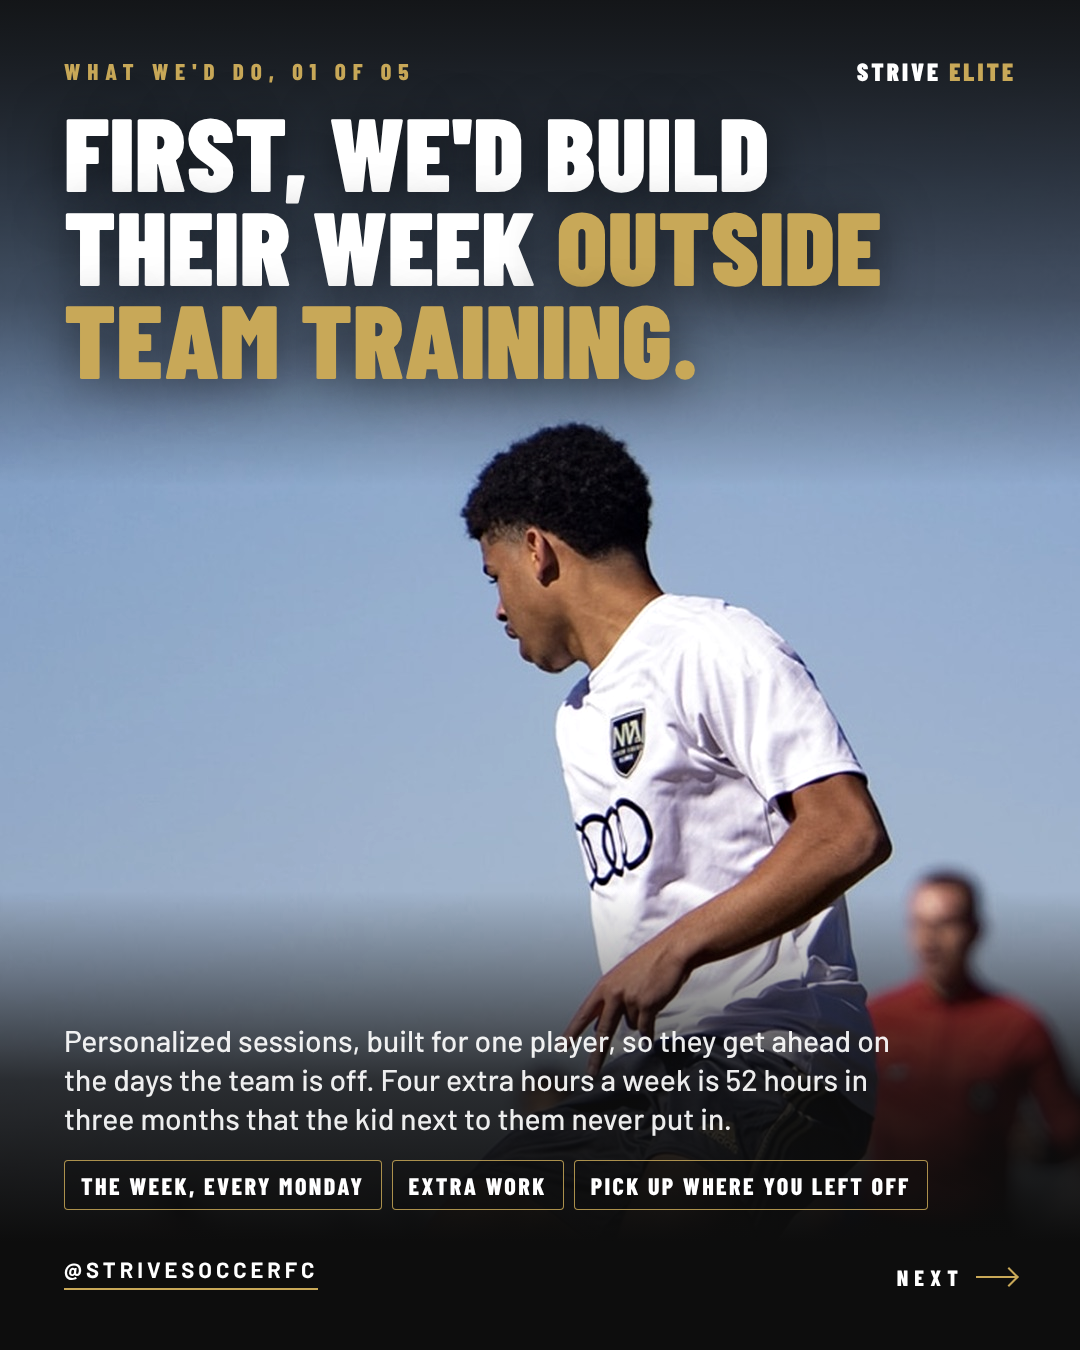
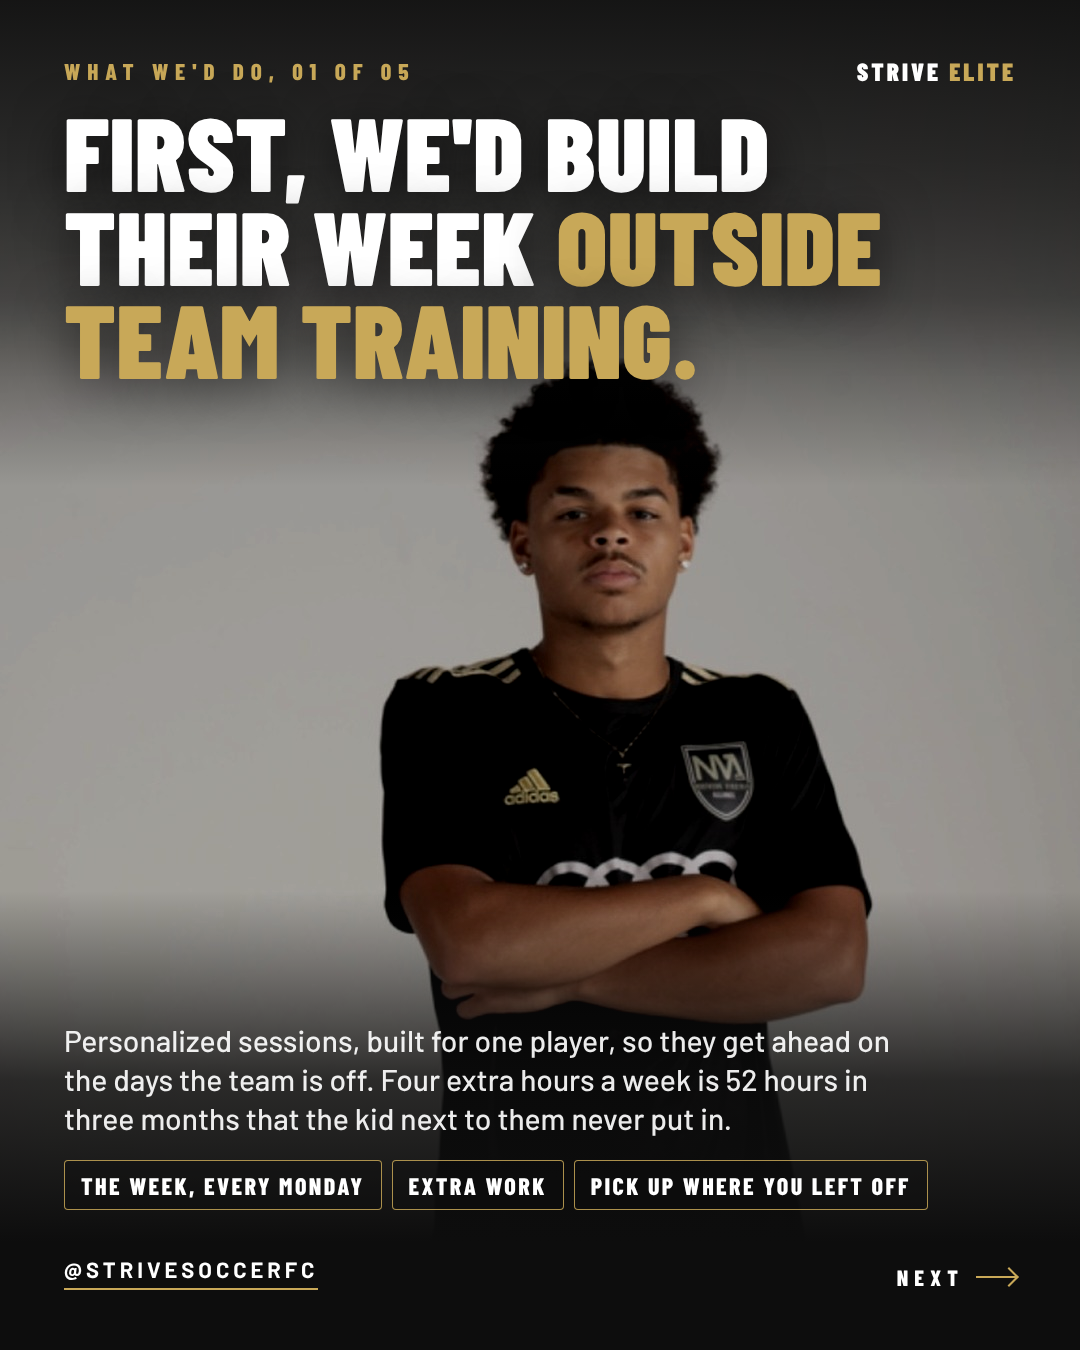
Offer carousel: studio portrait on step 1, standing shot as the option
Step 1 now carries the studio portrait in the black NVA kit, graded
toward brand black; the standing field shot rendered beside it as
the other option. Record updated.

Claude-Session: https://claude.ai/code/session_011JsCTTjCbUkHbTuWTKQSXJ

diff --git a/marketing/announcement/offer-post/step1-standing.html b/marketing/announcement/offer-post/step1-standing.html
@@ -1,0 +1,35 @@
+<!doctype html><meta charset="utf-8">
+<title>Step 01 (1080x1350)</title>
+<link rel="stylesheet" href="../../covers/strive-elite-meeting/fonts.css">
+<style>
+/* The walk, framed the Nike way (Coach Yinka, Nov 4 2026): headline in the
+   negative space at the top, the coach uncovered in the clear band under
+   it, the sentence and the chips low. Photos are pre-composed in
+   photos/stepN.jpg so the face lands at about y 500. */
+*{box-sizing:border-box;margin:0;padding:0}
+html,body{width:1080px;height:1350px;background:#0d0d0d;overflow:hidden}
+body{font-family:'Barlow',sans-serif;color:#fff;position:relative}
+.ph{position:absolute;inset:0;background:#0d0d0d url(photos/step1-standing.jpg) center top/1080px 1350px;filter:saturate(.85) contrast(1.06)}
+
+.sh{position:absolute;inset:0;background:linear-gradient(180deg,rgba(13,13,13,.92) 0%,rgba(13,13,13,.55) 22%,rgba(13,13,13,0) 36%,rgba(13,13,13,0) 66%,rgba(13,13,13,.8) 80%,#0d0d0d 92%,#0d0d0d 100%)}
+.top{position:absolute;left:64px;top:56px;right:64px;display:flex;justify-content:space-between;align-items:center}
+.step{font-family:'Barlow Condensed';font-weight:800;font-size:23px;letter-spacing:.3em;text-transform:uppercase;color:#c8a858}
+.wm{font-family:'Barlow Condensed';font-weight:900;font-size:25px;letter-spacing:.12em;text-transform:uppercase}
+.wm span{color:#c8a858}
+h1{position:absolute;left:64px;top:104px;right:64px;font-family:'Barlow Condensed';font-weight:900;font-size:104px;line-height:.9;text-transform:uppercase;letter-spacing:.005em;text-shadow:0 8px 50px rgba(0,0,0,.6)}
+h1 span{color:#c8a858}
+.low{position:absolute;left:64px;right:64px;bottom:140px}
+.p{font-size:30px;line-height:1.3;font-weight:500;max-width:860px;color:rgba(255,255,255,.92)}
+.chips{margin-top:22px;display:flex;flex-wrap:wrap;gap:10px}
+.chips span{font-family:'Barlow Condensed';font-weight:800;font-size:24px;letter-spacing:.1em;text-transform:uppercase;padding:10px 16px 9px;border:1.5px solid rgba(200,168,88,.85);color:#fff;border-radius:4px;background:rgba(13,13,13,.4)}
+.swipe{position:absolute;right:64px;bottom:60px;font-family:'Barlow Condensed';font-weight:800;font-size:22px;letter-spacing:.28em;text-transform:uppercase;display:flex;align-items:center;gap:12px}
+.swipe i{display:block;width:40px;height:2px;background:#c8a858;position:relative}
+.swipe i:after{content:"";position:absolute;right:0;top:-6px;width:12px;height:12px;border-top:2px solid #c8a858;border-right:2px solid #c8a858;transform:rotate(45deg)}
+.handle{position:absolute;left:64px;bottom:60px;font-weight:700;font-size:22px;letter-spacing:.18em;text-transform:uppercase}
+.handle:after{content:"";display:block;height:2px;width:100%;background:#c8a858;margin-top:6px}
+</style>
+<div class="ph"></div><div class="sh"></div>
+<div class="top"><div class="step">What we'd do, 01 of 05</div><div class="wm">Strive <span>Elite</span></div></div>
+<h1>First, we'd build<br>their week <span>outside<br>team training.</span></h1>
+<div class="low"><p class="p">Personalized sessions, built for one player, so they get ahead on the days the team is off. Four extra hours a week is 52 hours in three months that the kid next to them never put in.</p><div class="chips"><span>The week, every Monday</span><span>Extra Work</span><span>Pick up where you left off</span></div></div>
+<div class="handle">@strivesoccerfc</div><div class="swipe">Next <i></i></div>

diff --git a/marketing/announcement/offer-post/compose-photos.py b/marketing/announcement/offer-post/compose-photos.py
@@ -6,8 +6,9 @@
 # of the space above our head."
 from PIL import Image, ImageFilter, ImageEnhance
 S="photos/src/"; F=220
-def comp(src,k,head,target,out,canvas=(1080,1350),mirror=False,band_bright=.8):
+def comp(src,k,head,target,out,canvas=(1080,1350),mirror=False,band_bright=.8,grade=None):
     im=Image.open(S+src).convert("RGB")
+    if grade: im=ImageEnhance.Contrast(ImageEnhance.Brightness(im).enhance(grade[0])).enhance(grade[1])
     if mirror: im=im.transpose(Image.FLIP_LEFT_RIGHT)
     im=im.resize((round(im.width*k),round(im.height*k)),Image.LANCZOS)
     x=round(target[0]-head[0]*k); y=round(target[1]-head[1]*k)
@@ -25,7 +26,8 @@ def comp(src,k,head,target,out,canvas=(1080,1350),mirror=False,band_bright=.8):
         c.paste(im,(x,y))
     if out: c.save(out,quality=92)
     return c
-comp("yinka-nva-strike.jpg",1.5,(590,300),(600,500),"photos/step1.jpg")
+comp("yinka-nva-studio.jpg",1.3,(609,289),(600,535),"photos/step1.jpg",grade=(.72,1.18))  # step 1: the studio portrait, his "different picture" Nov 4; the grey backdrop graded down toward brand black
+comp("yinka-nva-standing.jpg",1.5,(566,276),(620,500),"photos/step1-standing.jpg")  # the other option offered
 comp("gary-armenia-u19.jpg",1.3,(780,470),(700,490),"photos/step2.jpg")
 comp("gary-armenia-u16.jpg",1.5,(575,160),(620,510),"photos/step3.jpg")
 comp("gary-ecnl-captain.jpg",1.6,(340,95),(430,490),"photos/step4.jpg")

diff --git a/CLAUDE.md b/CLAUDE.md
@@ -3369,6 +3369,17 @@ commit.
       version in strive-elite-offer-post.md. Supersedes the Oct 25
       "3 months for $1,350" proposal. Stripe needs both prices (the
       $350 standard price is still there). Sent, not posted.
+      THEN (Coach Yinka, on step 1: "Use different picture of me
+      here"): the NVA strike photo is OUT of step 1. Two photos of him
+      were left unused in photos/src: the studio portrait in the black
+      NVA kit (arms crossed, grey backdrop) and the standing field shot
+      in the white. STEP 1 IS NOW THE STUDIO PORTRAIT, my pick: the
+      cleanest, most premium frame of the set, the grey backdrop graded
+      down (brightness .72, contrast 1.18 in compose-photos.py) so it
+      sits with the black slides, face in the band under the headline.
+      The standing shot rendered beside it as step1-standing.png
+      (step1-standing.html, photos/step1-standing.jpg) for him to pick;
+      the strike photo stays in src. Preview strip rebuilt. Both sent.
 
 ## Growth target (stamped Sept 19, Coach Yinka's own call)
 
